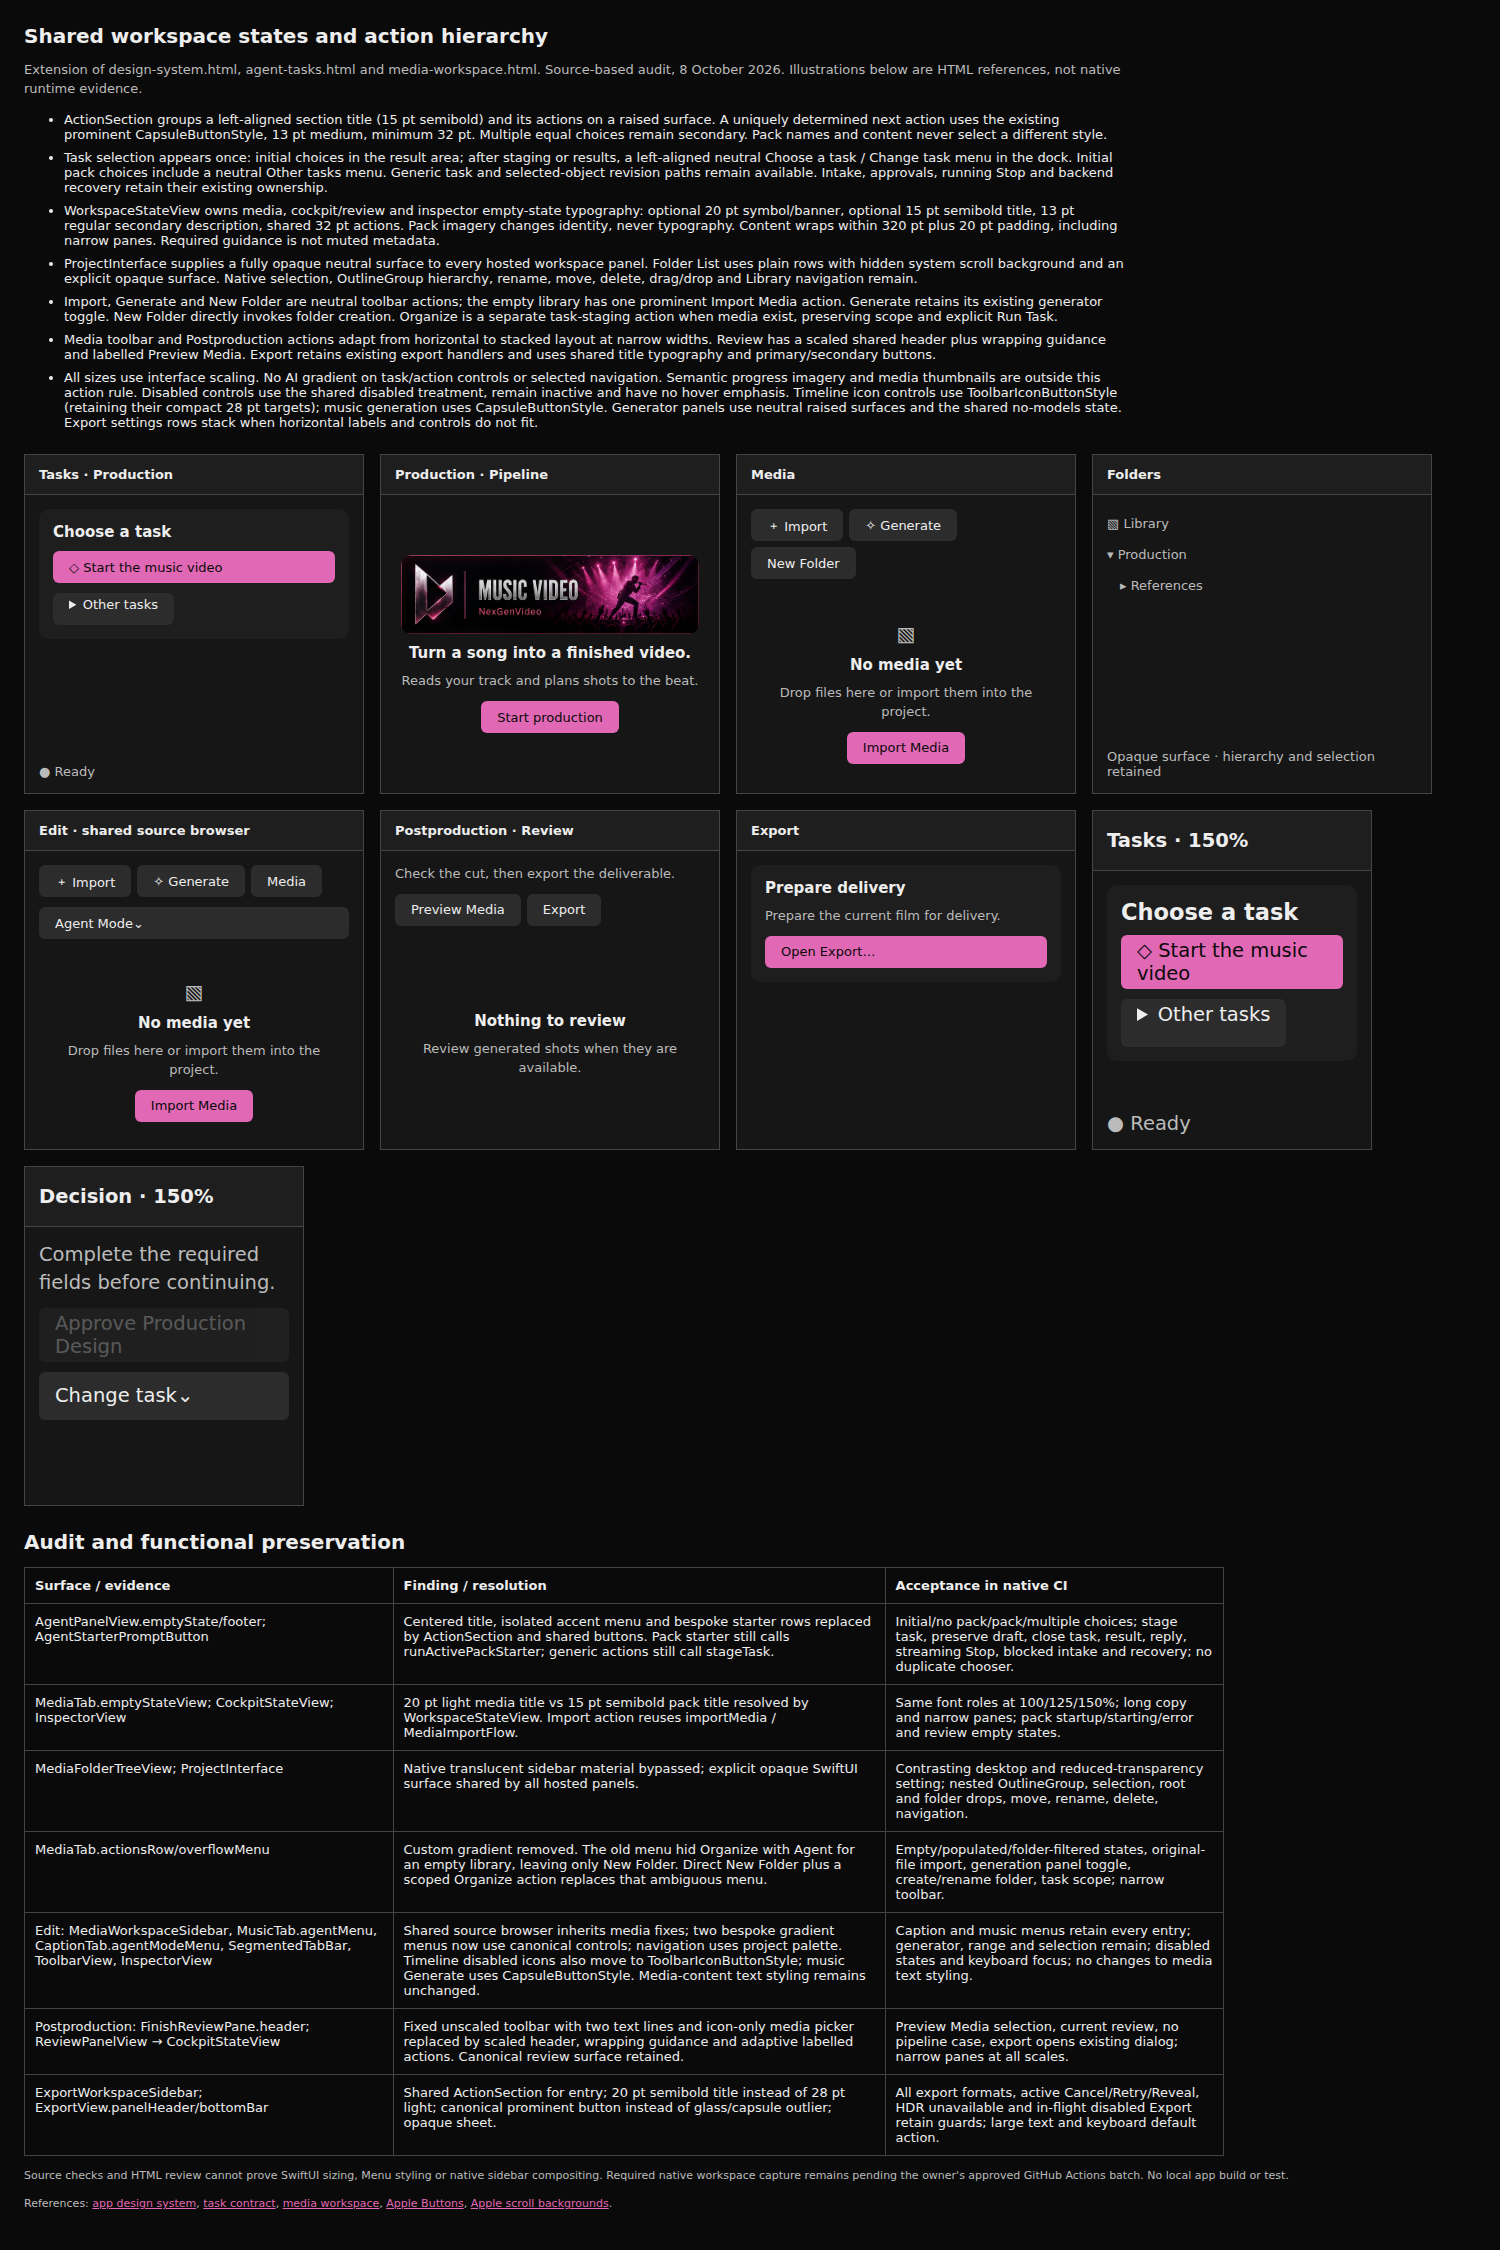
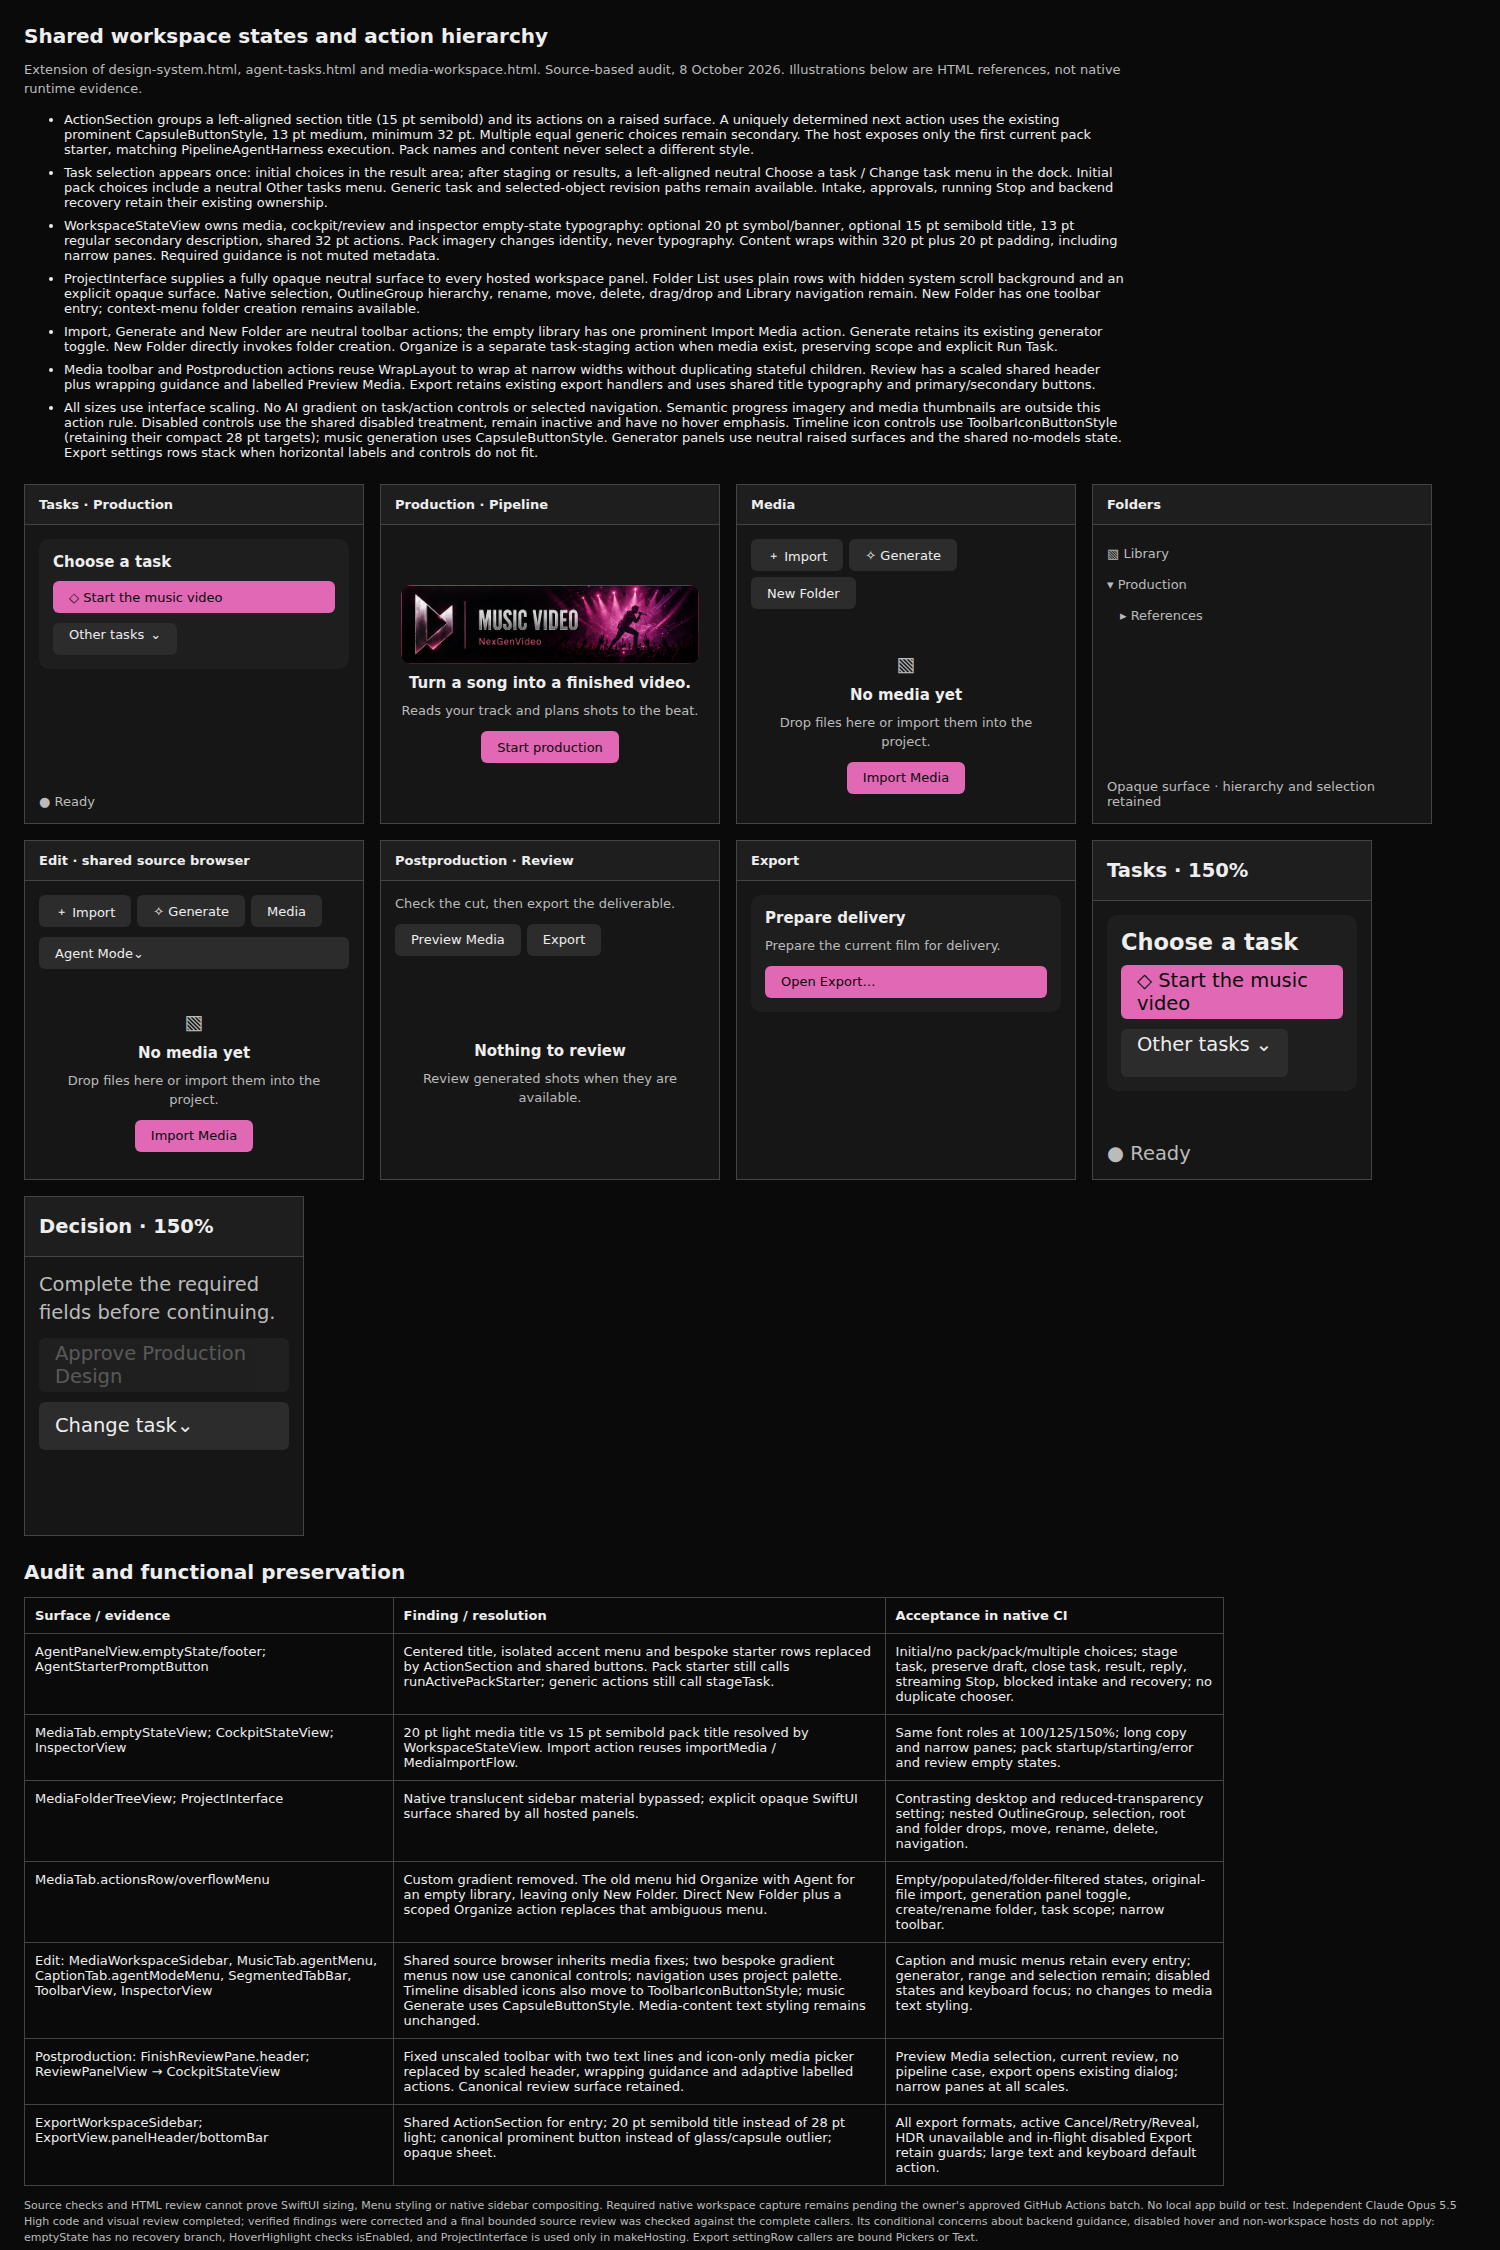
docs: record final workspace visual review

diff --git a/docs/ui/workspace-consistency.html b/docs/ui/workspace-consistency.html
@@ -1,6 +1,6 @@
 <!doctype html><html lang="en"><meta charset="utf-8"><title>NexGenVideo — workspace consistency</title>
 <style>
-:root{color-scheme:dark;font:13px system-ui;--surface:#161616;--raised:#1e1e1e;--control:#2c2c2c;--accent:#e168b4;--text:#eee;--secondary:#bbb}*{box-sizing:border-box}body{margin:24px;background:#0a0a0a;color:var(--text)}h1{font-size:20px}h2{font-size:15px;font-weight:600;margin:0}p{line-height:1.45;margin:0;color:var(--secondary)}#spec{max-width:1100px}#spec li{margin:8px 0}a{color:var(--accent)}.board{display:flex;gap:16px;align-items:stretch;flex-wrap:wrap;margin:24px 0}.panel{width:340px;background:var(--surface);border:1px solid #444;min-height:340px;display:flex;flex-direction:column}.header{height:40px;display:flex;align-items:center;padding:0 14px;background:var(--raised);border-bottom:1px solid #444;font-weight:600}.content{padding:14px;flex:1}.action{background:var(--raised);border-radius:10px;padding:14px;display:grid;gap:10px}.action h2{margin-bottom:0}.buttons{display:flex;gap:6px;flex-wrap:wrap}button,summary{font:500 13px system-ui;min-height:32px;border:0;border-radius:6px;background:var(--control);color:var(--text);padding:4px 16px;cursor:pointer;white-space:normal;text-align:left}button:hover,summary:hover{filter:brightness(1.15)}button:active{opacity:.8}button:focus-visible,summary:focus-visible{outline:2px solid white;outline-offset:2px}button.primary{background:var(--accent);color:#0a0a0a}button:disabled{background:var(--control);color:#aaa;opacity:.45;filter:none;cursor:default}.full{width:100%}details{justify-self:start}details button{display:block;width:100%;margin-top:6px}.state{display:flex;flex:1;flex-direction:column;align-items:center;justify-content:center;padding:20px;gap:10px;text-align:center}.state img{width:100%;max-width:320px;border-radius:10px}.icon{font-size:20px;color:var(--secondary)}footer{padding:14px;color:var(--secondary)}.folder{background:var(--surface);flex:1;padding:14px}.folder p{padding:6px 0}.scale150{font-size:19.5px;width:280px}.scale150 h2{font-size:22.5px}.scale150 button,.scale150 summary{font-size:19.5px;min-height:48px}.scale150 .header{height:60px}.scale150 .icon{font-size:30px}.note{font-size:11px;margin:12px 0}.reading{padding:14px;display:grid;gap:10px}table{border-collapse:collapse;max-width:1200px}td,th{padding:10px;text-align:left;vertical-align:top;border:1px solid #444}code{font-size:12px}
+:root{color-scheme:dark;font:13px system-ui;--surface:#161616;--raised:#1e1e1e;--control:#2c2c2c;--accent:#e168b4;--text:#eee;--secondary:#bbb}*{box-sizing:border-box}body{margin:24px;background:#0a0a0a;color:var(--text)}h1{font-size:20px}h2{font-size:15px;font-weight:600;margin:0}p{line-height:1.45;margin:0;color:var(--secondary)}#spec{max-width:1100px}#spec li{margin:8px 0}a{color:var(--accent)}.board{display:flex;gap:16px;align-items:stretch;flex-wrap:wrap;margin:24px 0}.panel{width:340px;background:var(--surface);border:1px solid #444;min-height:340px;display:flex;flex-direction:column}.header{height:40px;display:flex;align-items:center;padding:0 14px;background:var(--raised);border-bottom:1px solid #444;font-weight:600}.content{padding:14px;flex:1}.action{background:var(--raised);border-radius:10px;padding:14px;display:grid;gap:10px}.action h2{margin-bottom:0}.buttons{display:flex;gap:6px;flex-wrap:wrap}button,summary{font:500 13px system-ui;min-height:32px;border:0;border-radius:6px;background:var(--control);color:var(--text);padding:4px 16px;cursor:pointer;white-space:normal;text-align:left}button:hover,summary:hover{filter:brightness(1.15)}button:active{opacity:.8}button:focus-visible,summary:focus-visible{outline:2px solid white;outline-offset:2px}button.primary{background:var(--accent);color:#0a0a0a}button:disabled{background:var(--control);color:#aaa;opacity:.45;filter:none;cursor:default}.full{width:100%}details{justify-self:start}summary{list-style:none}summary::after{content:"⌄";margin-left:6px}summary::-webkit-details-marker{display:none}details button{display:block;width:100%;margin-top:6px}.state{display:flex;flex:1;flex-direction:column;align-items:center;justify-content:center;padding:20px;gap:10px;text-align:center}.state img{width:100%;max-width:320px;border-radius:10px}.icon{font-size:20px;color:var(--secondary)}footer{padding:14px;color:var(--secondary)}.folder{background:var(--surface);flex:1;padding:14px}.folder p{padding:6px 0}.scale150{font-size:19.5px;width:280px}.scale150 h2{font-size:22.5px}.scale150 button,.scale150 summary{font-size:19.5px;min-height:48px}.scale150 .header{height:60px}.scale150 .icon{font-size:30px}.note{font-size:11px;margin:12px 0}.reading{padding:14px;display:grid;gap:10px}table{border-collapse:collapse;max-width:1200px}td,th{padding:10px;text-align:left;vertical-align:top;border:1px solid #444}code{font-size:12px}
 </style>
 <section id="spec"><h1>Shared workspace states and action hierarchy</h1><p>Extension of design-system.html, agent-tasks.html and media-workspace.html. Source-based audit, 8 October 2026. Illustrations below are HTML references, not native runtime evidence.</p><ul>
 <li>ActionSection groups a left-aligned section title (15 pt semibold) and its actions on a raised surface. A uniquely determined next action uses the existing prominent CapsuleButtonStyle, 13 pt medium, minimum 32 pt. Multiple equal generic choices remain secondary. The host exposes only the first current pack starter, matching PipelineAgentHarness execution. Pack names and content never select a different style.</li>
@@ -30,6 +30,6 @@
 <tr><td>Edit: MediaWorkspaceSidebar, MusicTab.agentMenu, CaptionTab.agentModeMenu, SegmentedTabBar, ToolbarView, InspectorView</td><td>Shared source browser inherits media fixes; two bespoke gradient menus now use canonical controls; navigation uses project palette. Timeline disabled icons also move to ToolbarIconButtonStyle; music Generate uses CapsuleButtonStyle. Media-content text styling remains unchanged.</td><td>Caption and music menus retain every entry; generator, range and selection remain; disabled states and keyboard focus; no changes to media text styling.</td></tr>
 <tr><td>Postproduction: FinishReviewPane.header; ReviewPanelView → CockpitStateView</td><td>Fixed unscaled toolbar with two text lines and icon-only media picker replaced by scaled header, wrapping guidance and adaptive labelled actions. Canonical review surface retained.</td><td>Preview Media selection, current review, no pipeline case, export opens existing dialog; narrow panes at all scales.</td></tr>
 <tr><td>ExportWorkspaceSidebar; ExportView.panelHeader/bottomBar</td><td>Shared ActionSection for entry; 20 pt semibold title instead of 28 pt light; canonical prominent button instead of glass/capsule outlier; opaque sheet.</td><td>All export formats, active Cancel/Retry/Reveal, HDR unavailable and in-flight disabled Export retain guards; large text and keyboard default action.</td></tr>
-</table><p class="note">Source checks and HTML review cannot prove SwiftUI sizing, Menu styling or native sidebar compositing. Required native workspace capture remains pending the owner's approved GitHub Actions batch. No local app build or test.</p>
+</table><p class="note">Source checks and HTML review cannot prove SwiftUI sizing, Menu styling or native sidebar compositing. Required native workspace capture remains pending the owner's approved GitHub Actions batch. No local app build or test. Independent Claude Opus 5.5 High code and visual review completed; verified findings were corrected and a final bounded source review was checked against the complete callers. Its conditional concerns about backend guidance, disabled hover and non-workspace hosts do not apply: emptyState has no recovery branch, HoverHighlight checks isEnabled, and ProjectInterface is used only in makeHosting. Export settingRow callers are bound Pickers or Text.</p>
 <p class="note">References: <a href="design-system.html">app design system</a>, <a href="agent-tasks.html">task contract</a>, <a href="media-workspace.html">media workspace</a>, <a href="https://developer.apple.com/design/human-interface-guidelines/buttons">Apple Buttons</a>, <a href="https://developer.apple.com/documentation/swiftui/view/scrollcontentbackground(_:)">Apple scroll backgrounds</a>.</p>
 </html>
